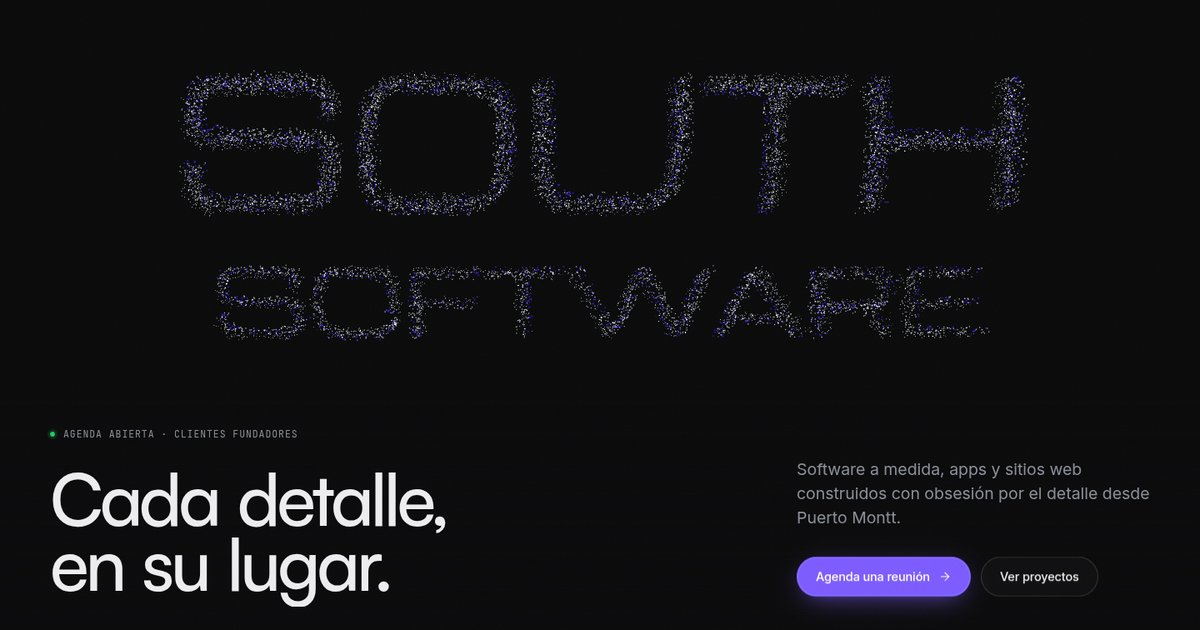
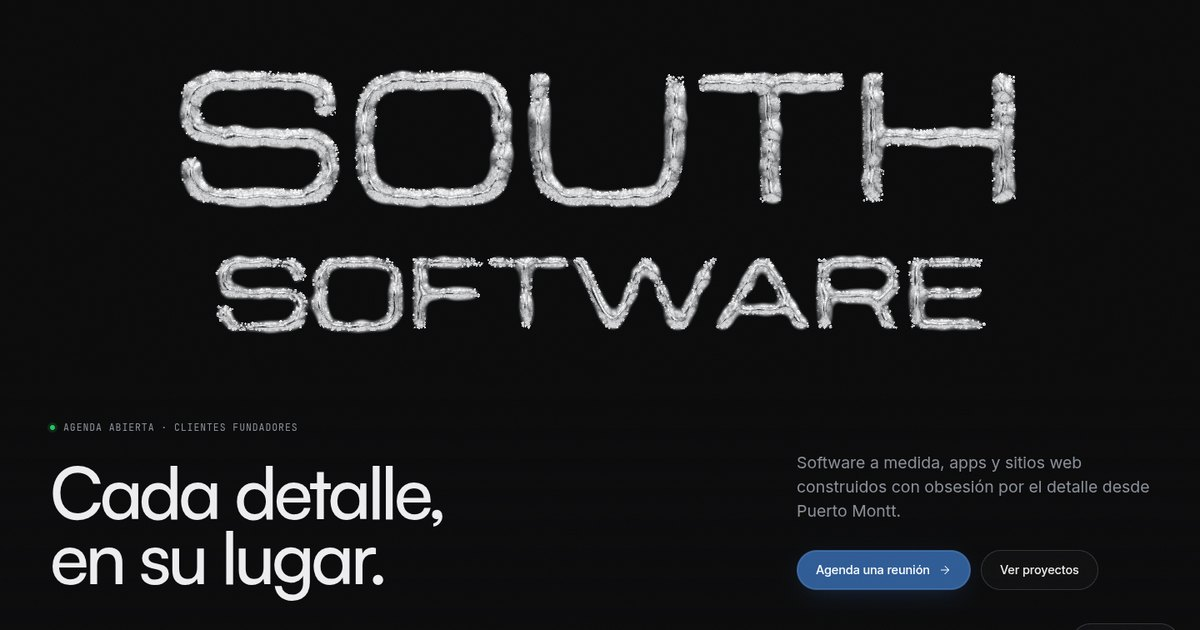
fix(v2): muestreo del texto centrado y matcap completo; OG/twitter con la paleta nueva; README v2; test de centrado

diff --git a/src/components/three/ParticleScene.tsx b/src/components/three/ParticleScene.tsx
@@ -24,7 +24,7 @@ export const LOGO_LINES: Lines = [{ text: 'SOUTH', size: 210, y: 140 }, { text: 
 function sampleText(lines: Lines, font: string) {
   const c = document.createElement('canvas'); c.width = 1400; c.height = 420;
   const g = c.getContext('2d', { willReadFrequently: true })!;
-  g.fillStyle = 'white'; // máscara de muestreo, no color visible g.textAlign = 'center'; g.textBaseline = 'middle';
+  g.fillStyle = 'white'; g.textAlign = 'center'; g.textBaseline = 'middle'; /* blanco = máscara de muestreo, no color visible */
   for (const l of lines) { g.font = `400 ${l.size}px ${font}, sans-serif`; g.fillText(l.text, 700, l.y); }
   const d = g.getImageData(0, 0, 1400, 420).data; const pts: [number, number][] = [];
   for (let y = 0; y < 420; y += 3) for (let x = 0; x < 1400; x += 3) if (d[(y * 1400 + x) * 4] > 128) pts.push([(x - 700) / 100, (210 - y) / 100]);
@@ -81,9 +81,11 @@ function Liquid({ lines, font, cfg, tokens }: { lines: Lines; font: string; cfg:
     const engine = new LiquidEngine(gl, cfg, tokens, env?.texture ?? null, matcap);
     st.engine = engine;
     if (forcedTier() || /[?&]qa\b/.test(location.search)) (window as unknown as { __liq?: unknown }).__liq = st; // QA (?gl=…): inspección desde Playwright
-    group.current?.add(engine.points);
+    const grp = group.current;
+    grp?.add(engine.points);
     const fill = (first: boolean) => {
-      engine.setTargets(sampleText(lines, font), first ? (RT.static || st.intro.v > 0.5 ? 'text' : 'scatter') : undefined);
+      // estático (sin simulación): las posiciones deben seguir al texto re-muestreado al cargar la fuente
+      engine.setTargets(sampleText(lines, font), RT.static ? 'text' : first ? (st.intro.v > 0.5 ? 'text' : 'scatter') : undefined);
       invalidate();
     };
     fill(true);
@@ -94,7 +96,7 @@ function Liquid({ lines, font, cfg, tokens }: { lines: Lines; font: string; cfg:
       ripO: st.ripO, ripT: 9, ripA: 0, mouseUv: st.mouseUv, liquid: 0.85, rUv: 0.1, static: RT.static,
     };
     return () => {
-      alive = false; group.current?.remove(engine.points); engine.dispose(); st.engine = null;
+      alive = false; grp?.remove(engine.points); engine.dispose(); st.engine = null;
       env?.dispose(); matcap?.dispose();
     };
   }, [gl, cfg, tokens, lines, font, invalidate]);

diff --git a/e2e/home-v2.spec.ts b/e2e/home-v2.spec.ts
@@ -93,9 +93,11 @@ test.describe('Home v2 · desktop 1440×900', () => {
       const h = innerHeight, ppw = h / (2 * 13 * Math.tan((20 * Math.PI) / 180));
       const bottom = h / 2 - (st.fr.posY + st.fr.scale * st.engine.bounds.minY) * ppw;
       const hero = document.querySelector('.hero')!.getBoundingClientRect().top;
-      return document.querySelector('.hero .status')!.getBoundingClientRect().top - hero - bottom;
+      const b = st.engine.bounds as unknown as { minX: number; maxX: number };
+      return { gap: document.querySelector('.hero .status')!.getBoundingClientRect().top - hero - bottom, center: (b.minX + b.maxX) / 2 };
     });
-    expect(gap).toBeGreaterThanOrEqual(32);
+    expect(gap.gap).toBeGreaterThanOrEqual(32);
+    expect(Math.abs(gap.center)).toBeLessThan(0.6); // el wordmark muestreado está centrado
   });
 
   test('/packs responde 200 y NAV "Packs" lleva a /packs', async ({ page, request }) => {

diff --git a/src/components/three/engine.ts b/src/components/three/engine.ts
@@ -32,7 +32,7 @@ export function makeMatcap(tk: Tokens) {
   const g = c.getContext('2d')!;
   const lin = g.createLinearGradient(0, 0, 0, S);
   lin.addColorStop(0, 'white'); lin.addColorStop(0.24, tk.chrome1); lin.addColorStop(0.47, tk.chrome3);
-  lin.addColorStop(0.55, tk.bg); // horizonte oscuro = fondo del sitio lin.addColorStop(0.72, tk.chrome2); lin.addColorStop(1, tk.chrome1);
+  lin.addColorStop(0.55, tk.bg); lin.addColorStop(0.72, tk.chrome2); lin.addColorStop(1, tk.chrome1); /* horizonte oscuro = fondo del sitio */
   g.fillStyle = lin; g.fillRect(0, 0, S, S);
   const hl = g.createRadialGradient(S * 0.32, S * 0.28, 0, S * 0.32, S * 0.28, S * 0.3);
   hl.addColorStop(0, 'rgba(255,255,255,.95)'); hl.addColorStop(1, 'rgba(255,255,255,0)');

diff --git a/README.md b/README.md
@@ -49,8 +49,10 @@ src/
     layout.tsx            fuentes, preloader, nav, footer, JSON-LD Organization
   content/site.ts         ← TODOS LOS TEXTOS, servicios, packs, precios, proyectos y placeholders
   components/
-    sections/             secciones del home (Hero, Services, Cases, Packs, …)
-    three/                hero 3D (ParticleScene: shaders y muestreo del texto; HeroCanvas: carga diferida)
+    sections/             secciones (Hero, Services[teaser], Story, Cases/FeaturedCases, PacksTeaser, Packs, Final, …)
+    three/                hero "metal líquido": engine.ts (GPGPU + gotas impostoras + pasada de fluido),
+                          shaders/ (sim, render, noise), tiers.ts (niveles), ParticleScene (R3F), HeroCanvas (carga diferida)
+    LegacyHash.tsx        redirige anclas antiguas del home (#packs → /packs, #proceso/#stack → /servicios, #por-que → /nosotros)
     MotionRoot.tsx        puente React → lib/motion-runtime.ts (se carga tras el primer pintado)
     Nav, Footer, ContactForm, MobileMenu, FormFeedback, Preloader, PageHero, Page, ui
   lib/
@@ -59,8 +61,8 @@ src/
     contact-schema.ts     validación servidor (zod) · contact-rules.ts validación cliente (liviana)
     seo.ts fonts.ts gsap.ts
   fonts/                  woff2 self-hosted + licencias
-e2e/                      tests Playwright (navegación y formulario)
-scripts/                  shoot.py (capturas) · record-home.py (video del home)
+e2e/                      tests Playwright (navegación, formulario, home-v2: canvas/lente/paleta/largos/enlaces)
+scripts/                  shoot.py (capturas) · record-home.py (video 10 s del hero) · measure-home.py (alto por sección) · js-weight.py (peso JS)
 audit/                    Semgrep (reporte y reglas propias)
 ```
 
@@ -70,15 +72,19 @@ audit/                    Semgrep (reporte y reglas propias)
 - **Proyectos:** agrega un objeto en `CASES` (`src/content/site.ts`) y su imagen en `public/cases/`.
   La página `/proyectos/<slug>` se genera sola (y entra al sitemap). Para métricas reales, cambia `value: null` por el dato.
 - **WhatsApp / teléfono:** `WHATSAPP_NUMBER` y `BRAND.phone` en `src/content/site.ts`.
-- **Colores:** variables al inicio de `src/app/globals.css` (`--bg`, `--fg`, `--muted`, `--dim`) y el bloque
-  "Concept 10" (`--accent: #7C5CFF`, `--accent-rgb`, `--accent-fill`). El color de las partículas sale de `--accent`.
+- **Colores:** variables al inicio de `src/app/globals.css`: `--bg`, `--fg`, `--muted`, `--dim` y la paleta acero/cromo
+  `--accent:#8FB4E3` (texto/acento, 9.2:1 sobre el fondo), `--accent-rgb`, `--accent-fill:#2F5C96` (botón, 6.8:1 con texto blanco),
+  `--accent-deep:#244A7F` (brillos ≤ .18), `--chrome-1/2/3`. El 3D lee estos tokens (sin hex propios).
+- **Home vs /packs:** el home muestra 3 packs (`HOME_PACKS` en `src/content/site.ts`) con "Desde $X"; la tabla completa está en `/packs`.
 - **Tipografías:** `src/lib/fonts.ts` (Satoshi titulares, Inter cuerpo, JetBrains Mono etiquetas, Michroma logo/partículas).
 - **Imagen para redes:** reemplaza `src/app/opengraph-image.jpg` y `twitter-image.jpg` (1200×630).
 
 ## Rendimiento, accesibilidad y seguridad
 
-- 3D con code-splitting: se carga tras la intro (desktop) o a la primera interacción (móviles/equipos modestos), con 7.000 partículas en móvil, DPR limitado, pausa fuera de pantalla y fallback sin WebGL.
-- `prefers-reduced-motion`: sin preloader, sin Lenis, sin animaciones de scroll; partículas estáticas.
+- 3D con code-splitting: se carga tras la intro (desktop) o a la primera interacción (móviles/equipos modestos), pausa fuera de pantalla y fallback sin WebGL.
+- Niveles (`src/components/three/tiers.ts`): high 14k gotas + fluido · mid 14k sin fluido · mobile 7k, DPR ≤ 1.5, matcap · low 4k, DPR 1.
+  Si el PerformanceMonitor detecta caída: 1) apaga el fluido, 2) DPR 1, 3) menos partículas. QA: `?gl=high|mid|mobile|low` fuerza un nivel.
+- `prefers-reduced-motion`: sin preloader, sin Lenis, sin animaciones de scroll; un único frame estático del texto cromado (frameloop "demand").
 - Cabeceras (next.config.ts): CSP, HSTS (2 años, preload), X-Frame-Options, nosniff, Referrer-Policy, Permissions-Policy, COOP.
 - Auditoría Semgrep: `audit/SEMGREP.md`.
 
